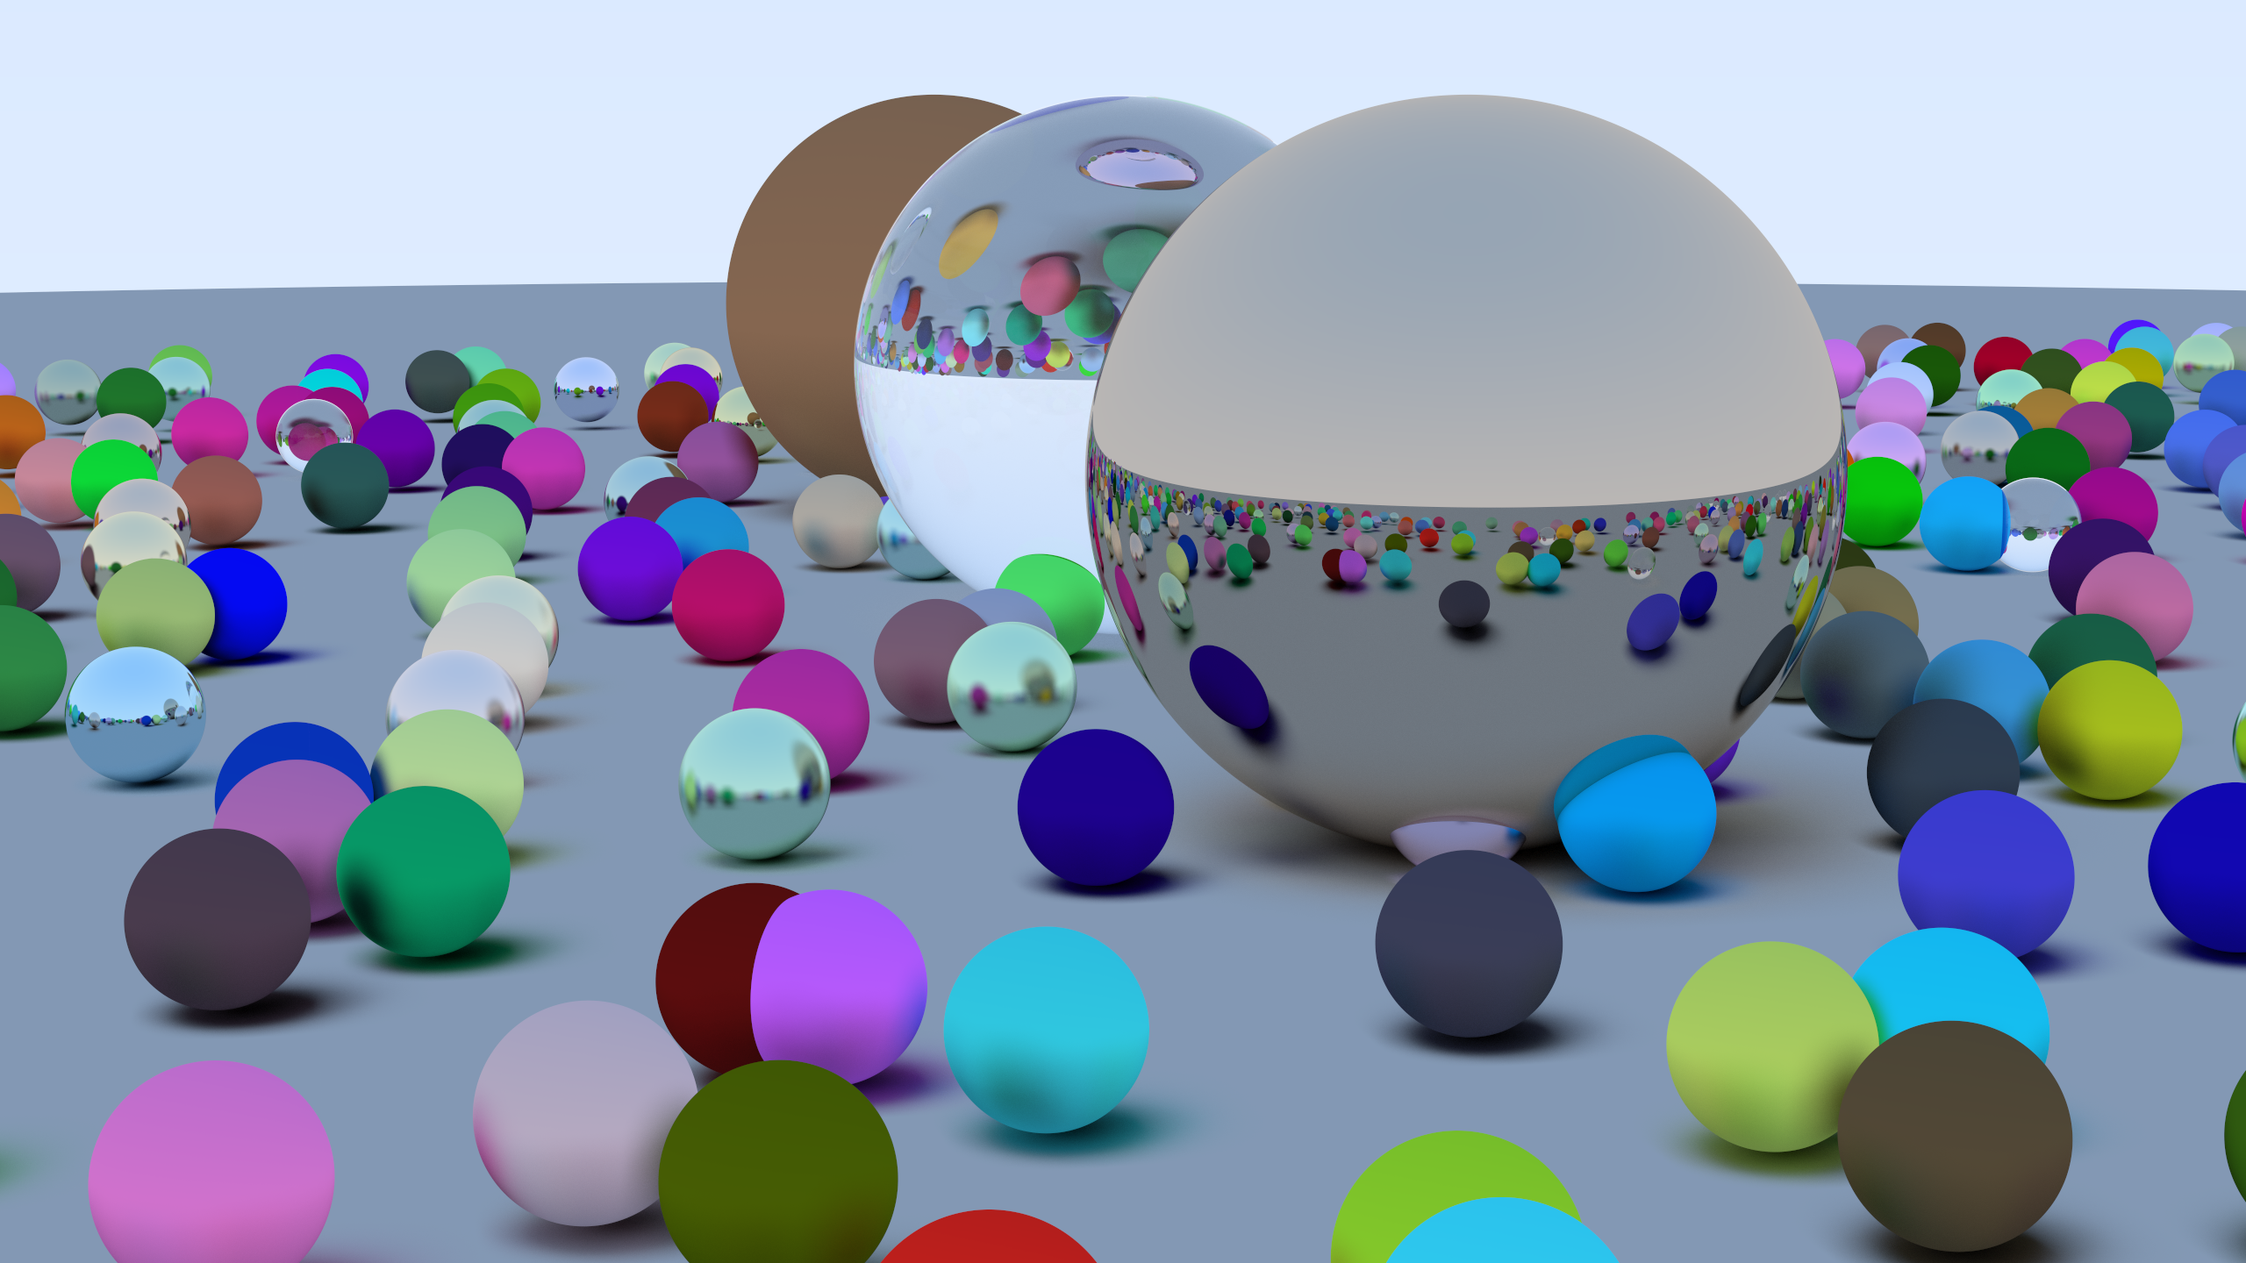
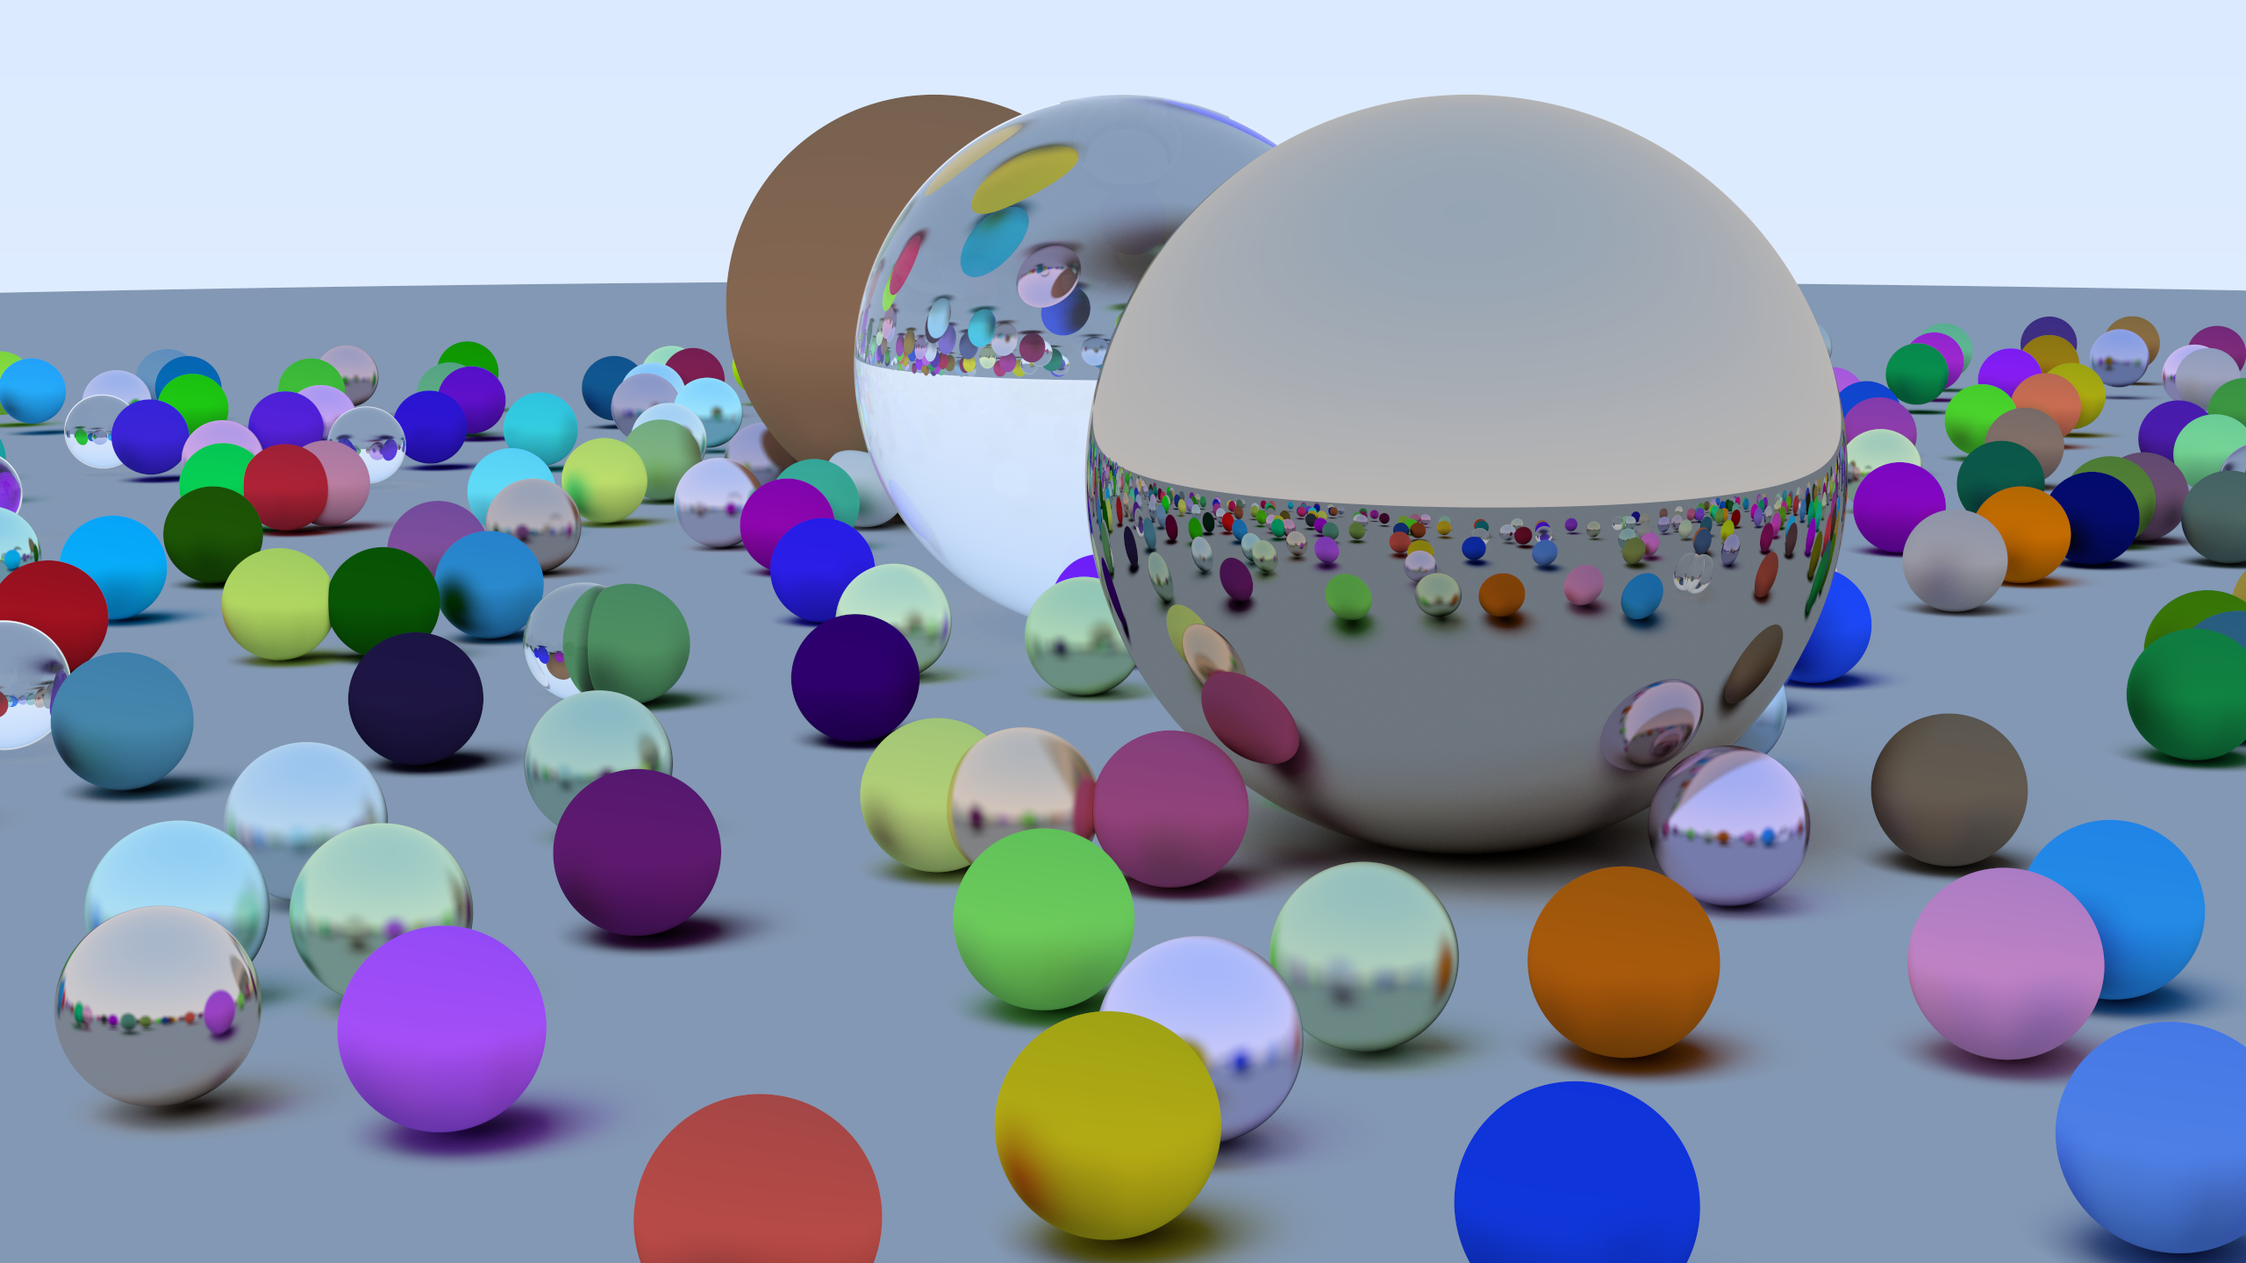
Update Open Graph and Twitter image metadata, enhance article introduction, and adjust section header font size for improved readability, Added a screenshot of the SASS code with a comment

diff --git a/RTIOW.html b/RTIOW.html
@@ -12,7 +12,8 @@
     <!-- Open Graph Meta (for Facebook, LinkedIn, etc.) -->
     <meta property="og:title" content="Karim Sayed - Rendering Engineer">
     <meta property="og:description" content="A showcase of my projects and portfolio.">
-    <meta property="og:image" content="https://karimsayedre.github.io/images/Pathtracing/0.jpg">
+    <meta property="og:image"
+        content="https://karimsayedre.github.io/images/RTIOW/2560x1440_50depth_3000samples_3400ms.png">
     <meta property="og:url" content="https://karimsayedre.github.io/">
     <meta property="og:type" content="website">
 
@@ -20,7 +21,8 @@
     <meta name="twitter:card" content="summary_large_image">
     <meta name="twitter:title" content="Karim Sayed - Rendering Engineer">
     <meta name="twitter:description" content="A showcase of my projects and portfolio.">
-    <meta name="twitter:image" content="https://karimsayedre.github.io/images/Pathtracing/0.jpg">
+    <meta name="twitter:image"
+        content="https://karimsayedre.github.io/images/RTIOW/2560x1440_50depth_3000samples_3400ms.png">
 
     <script src="https://cdn.jsdelivr.net/npm/bootstrap@5.3.3/dist/js/bootstrap.bundle.min.js"></script>
     <link href="https://cdn.jsdelivr.net/npm/bootstrap@5.3.3/dist/css/bootstrap.min.css" rel="stylesheet"
@@ -68,8 +70,8 @@
         <article>
             <div class="collapsible">
                 <h1>CUDA Ray Tracing 3.6x Faster Than RTX: My CUDA Ray Tracing Journey</h1>
-                <p><em>Note: This is a draft version. Final edits are still in progress. Feedback is welcome while final
-                        edits are underway.</em></p>
+                <!-- <p><em>Note: This is a draft version. Final edits are still in progress. Feedback is welcome while final
+                        edits are underway.</em></p> -->
 
             </div>
 
@@ -79,10 +81,23 @@
                 <h2>Introduction</h2>
 
                 <p>
-                    Alright, this headline is a bit <strong>click-baity</strong>, but it's actually true… kind of.
-                    I'm comparing my CUDA path tracer against the
-                    <a href="https://github.com/GPSnoopy/RayTracingInVulkan" target="_blank">RayTracingInVulkan</a>
-                    repo by GPSnoopy:
+                    Welcome! This article is a deep dive into how I made a CUDA-based ray tracer that outperforms a
+                    Vulkan/RTX implementation—sometimes by more than 3x—on the same hardware. If you're interested in
+                    GPU programming, performance optimization, or just want to see how far you can push a path tracer,
+                    you're in the right place.
+                </p>
+                <p>
+                    The comparison is with <a href="https://github.com/GPSnoopy/RayTracingInVulkan"
+                        target="_blank">RayTracingInVulkan</a> by GPSnoopy, a well-known Vulkan/RTX renderer. My goal
+                    wasn't just to port <em>Ray Tracing in One Weekend</em> to CUDA, but to squeeze every last
+                    millisecond out of it—profiling, analyzing, and optimizing until the numbers surprised even me.
+                    And this is actually how I learned CUDA.
+                </p>
+                <p>
+                    In this write-up, I'll walk you through the journey: what worked, what didn't, and the key
+                    tricks that made the biggest difference. Whether you're a graphics programmer, a CUDA
+                    enthusiast, or just curious about real-world GPU optimization, I hope you'll find something useful
+                    here.
                 </p>
 
                 <table class="perf-table">
@@ -99,7 +114,8 @@
                     </thead>
                     <tbody>
                         <tr>
-                            <td class="spec-value">GPSnoopy's repository</td>
+                            <td class="spec-value"><a href="https://github.com/GPSnoopy/RayTracingInVulkan"
+                                    target="_blank">RayTracingInVulkan</a></td>
                             <td class="spec-value">Vulkan</td>
                             <td class="spec-value">RTX acceleration</td>
                             <td class="spec-value">Procedural sphere tracing + triangle modes</td>
@@ -115,7 +131,9 @@
                             </td>
                         </tr>
                         <tr>
-                            <td class="spec-value">Mine</td>
+                            <td class="spec-value"><a
+                                    href="https://github.com/karimsayedre/CUDA-Ray-Tracing-In-One-Weekend"
+                                    target="_blank">CUDA-Ray-Tracing-In-One-Weekend</a>(Mine)</td>
                             <td class="spec-value">CUDA</td>
                             <td class="spec-value">No hardware RT cores</td>
                             <td class="spec-value">Procedural spheres only</td>
@@ -124,6 +142,9 @@
                             <td class="spec-value">
                                 <ul>
                                     <li>Same resolution and settings</li>
+                                    <li>Different sphere locations and materials</li>
+                                    <li>Implements what we call "inline ray tracing" (without hardware RT pipeline,
+                                        though)</li>
                                 </ul>
                             </td>
                         </tr>
@@ -131,14 +152,24 @@
                 </table>
 
                 <p>
-                    Why is the Vulkan/RTX version slower? While this is probably not the only reason, one key issue is
-                    that
-                    procedural shaders are actually <em>frowned upon</em> for performance because RT cores perform best
-                    with real
-                    triangle geometry. Even with triangle support, all scenes in GPSnoopy's repo stay below 33
-                    FPS—clearly
-                    showing the limitations of a mixed procedural + hardware-centric pipeline.
+                    Why is the Vulkan/RTX version slower? While there are many contributing factors, one probable
+                    reason—pointed out to me by GPSnoopy—is that procedural geometry in hardware-accelerated ray tracing
+                    is typically slower on NVIDIA GPUs. Unlike triangle meshes, procedural primitives (like spheres or
+                    AABBs) rely on intersection shaders that must run in software on the SMs, rather than using the
+                    fixed-function RT core pipeline optimized for triangle traversal and intersection. This introduces
+                    extra scheduling overhead and limits how much the GPU can offload to dedicated hardware.
                 </p>
+
+                <p>
+                    Supporting this theory, <strong>RayTracingInVulkan</strong> consistently benchmarks better on AMD
+                    cards, which
+                    treat triangle and procedural geometry more uniformly in their ray tracing pipeline. The disparity
+                    suggests that
+                    procedural shader performance is a weaker point for NVIDIA's RT core architecture—at least in the
+                    current
+                    generation.
+                </p>
+
                 <p>
                     Another reason might be the ray tracing pipeline itself. While powerful and flexible, the hardware
                     RT
@@ -388,7 +419,7 @@
 
             <section class="section-header">
 
-                <h2 class="optimization-title">Optimization #1 — Aggressive Inlining via Header-Only CUDA Design</h2>
+                <h2 class="optimization-title">Opt #1 — Aggressive Inlining via Header-Only CUDA Design</h2>
 
                 <p>
                     In CUDA, performance often hinges on inlining. Unlike traditional C++, CUDA's
@@ -483,7 +514,7 @@
             </section>
 
             <section class="section-header">
-                <h2>Optimization #2 — Killing Recursion with an Explicit Stack</h2>
+                <h2>Opt #2 — Killing Recursion with an Explicit Stack</h2>
 
                 <p>To eliminate recursion and cut down register pressure, I rewrote the BVH traversal to use an
                     <strong>explicit stack in registers</strong>. The old code relied on a clean recursive structure
@@ -624,7 +655,7 @@
             </section>
 
             <section class="section-header">
-                <h2 class="optimization-title">Optimization #3 — Don't Recompute What You Already Know</h2>
+                <h2 class="optimization-title">Opt #3 — Don't Recompute What You Already Know</h2>
                 <p>
                     Here's a simple but powerful axiom in real-time ray tracing:
                     <strong>Precompute what doesn't change.</strong> If you know you're going to need a value frequently
@@ -734,7 +765,7 @@
             </section>
 
             <section class="section-header">
-                <h2>Optimization #4 — Early Termination for Low Contributing Rays</h2>
+                <h2>Opt #4 — Early Termination for Low Contributing Rays</h2>
                 <p>
                     This one's simple but powerful. If a ray's contribution becomes negligible, we just stop tracing
                     it.
@@ -779,7 +810,7 @@ if (fmaxf(cur_attenuation.x, fmaxf(cur_attenuation.y, cur_attenuation.z)) &lt; 0
             </section>
 
             <section class="section-header">
-                <h2>Optimization #5 — Russian Roulette</h2>
+                <h2>Opt #5 — Russian Roulette</h2>
                 <p>
                     Early termination is good — but we can go further with <strong>Russian Roulette</strong>. After a
                     few bounces, we probabilistically decide whether a ray should continue or not, based on its current
@@ -846,7 +877,7 @@ if (i > 3) {
 
 
             <section class="section-header">
-                <h2>Optimization #6 — Structure of Arrays (SoA)</h2>
+                <h2>Opt #6 — Structure of Arrays (SoA)</h2>
                 <p>
                     Our original implementation leaned on inheritance and virtual dispatch, with every
                     object—spheres, BVH nodes,
@@ -1004,7 +1035,7 @@ if (node.Right == UINT32_MAX)
 
 
             <section class="section-header">
-                <h2>Optimization #7 — Four Levels of Ray-Slab Intersection Refinement</h2>
+                <h2>Opt #7 — Four Levels of Ray-Slab Intersection Refinement</h2>
                 <p>We improved BVH slab testing in four progressive steps, each trading complexity for fewer operations
                     inside the hot loop:</p>
                 <ol>
@@ -1080,7 +1111,7 @@ float tx1 = fmaf(invDir.x, max_bound.x, origMulInv.x);
             </section>
 
             <section class="section-header">
-                <h2>Optimization #8 — Surface Area Heuristic (SAH) BVH Construction</h2>
+                <h2>Opt #8 — Surface Area Heuristic (SAH) BVH Construction</h2>
                 <p>
                     Constructing a BVH by simply splitting primitives in half along an axis is easy—but not optimal. The
                     <strong>Surface Area Heuristic (SAH)</strong> chooses split planes based on minimizing the expected
@@ -1122,7 +1153,7 @@ for (int axis = 0; axis < 3; ++axis) {
             </section>
 
             <section class="section-header">
-                <h2>Optimization #9 — Alignment and Cacheline Efficiency</h2>
+                <h2>Opt #9 — Alignment and Cacheline Efficiency</h2>
                 <p>
                     Closely related to our Structure of Arrays (SoA) optimization, I found that <strong>data
                         alignment</strong> plays a massive role in
@@ -1301,7 +1332,7 @@ ld.global.f32    %r2, [%addr+8];    // loads z</code></pre>
 
 
             <section class="section-header" id="optimization-10">
-                <h2>Optimization #10 — Using Constant Memory Instead of Global Memory</h2>
+                <h2>Opt #10 — Using Constant Memory Instead of Global Memory</h2>
 
                 <p>
                     One of the most effective register-saving optimizations in CUDA is proper use of the
@@ -1486,7 +1517,7 @@ __global__ void InternalRender();</code></pre>
             </section>
 
             <section class="section-header" id="optimization-11">
-                <h2>Optimization #11 — Prefer <code>&lt;cmath&gt;</code> Intrinsics Over <code>&lt;algorithm&gt;</code>
+                <h2>Opt #11 — Prefer <code>&lt;cmath&gt;</code> Intrinsics Over <code>&lt;algorithm&gt;</code>
                     in CUDA</h2>
 
                 <p>
@@ -1609,7 +1640,7 @@ bool hit = (tEnter <= tExit);</code></pre>
             </section>
 
             <section class="section-header" id="optimization-12">
-                <h2>Optimization #12 — Roll Your Own RNG (LCG + Hash) Instead of <code>curand</code></h2>
+                <h2>Opt #12 — Roll Your Own RNG (LCG + Hash) Instead of <code>curand</code></h2>
 
                 <p>
                     When working with real-time GPU workloads like path tracing, CUDA's
@@ -1726,7 +1757,7 @@ bool hit = (tEnter <= tExit);</code></pre>
 
 
             <section class="section-header" id="optimization-13">
-                <h2>Optimization #13 — Branchless Material Sampling &amp; Evaluation</h2>
+                <h2>Opt #13 — Branchless Material Sampling &amp; Evaluation</h2>
 
                 <p>
                     My old implementation uses a <code>switch</code> over material types (Lambert, Metal,
@@ -1825,7 +1856,7 @@ bool hit = (tEnter <= tExit);</code></pre>
             </section>
 
             <section class="section-header" id="optimization-14">
-                <h2>Optimization #14 — Bypass CPU Staging with CUDA↔OpenGL Interop</h2>
+                <h2>Opt #14 — Bypass CPU Staging with CUDA↔OpenGL Interop</h2>
 
                 <p>
                     Early on, I rendered each frame by copying the CUDA output into an <code>sf::Image</code> (CPU
@@ -2079,7 +2110,6 @@ else [[likely]]
                     </p>
 
 
-                    <!-- Your existing image with preview functionality -->
                     <div class="image-container" data-preview="true">
 
                         <img src="images/RTIOW/Screenshot 2025-06-12 104519.png" class="preview-image"
@@ -2286,6 +2316,7 @@ else [[likely]]
                 <p>
                     These are from my RTX 3080 run if you'd like to explore the kernel analysis yourself.
                 </p>
+
                 <table class="perf-table">
                     <thead>
                         <tr>
@@ -2302,7 +2333,7 @@ else [[likely]]
                         </tr>
                         <tr>
                             <td>Latest/Improved</td>
-                            <td>9 ms</td>
+                            <td>8 ms</td>
                             <td><a href="Reports/Latest.ncu-rep" download>Download Latest Report (.ncu-rep)</a></td>
                         </tr>
                     </tbody>
@@ -2310,6 +2341,30 @@ else [[likely]]
 
 
                 <h3>benchmark Results</h3>
+
+
+                <!-- Your existing image with preview functionality -->
+                <div class="image-container" data-preview="true">
+
+                    <img src="images/RTIOW/Screenshot 2025-06-13 192959.png" class="preview-image"
+                        alt="CUDA Scheduler Performance">
+
+                    <div class="gotcha-card">
+                        <div class="gotcha-marker  pro-tip-marker"></div>
+
+                        <div class="image-comments">
+                            <p>
+                                The SASS instructions in the image are mostly FFMA, FMUL, and FMNMX—fast math operations
+                                ideal for compute-bound CUDA kernels. This shows the ray tracing inner loops are
+                                efficiently mapped to hardware, with minimal branching or memory stalls. Most stalls are
+                                not memory-related but due to scheduler choices or instruction dependencies. This
+                                efficient math mapping is a direct result of the described optimizations and explains
+                                the significant speedup in the final benchmarks.
+                            </p>
+                        </div>
+                    </div>
+                </div>
+
                 <p>
                     Below are the measured frame times in milliseconds. Lower is better:
                 </p>

diff --git a/style/style.css b/style/style.css
@@ -599,7 +599,7 @@ code {
 .section-header h2 {
   color: var(--accent-100);
   text-shadow: 1px 1px 3px rgba(0, 0, 0, 0.5);
-  font-size: 1.8rem;
+  font-size: 2.5rem;
   margin: 0;
   text-align: center;
   margin-bottom: 1rem;
